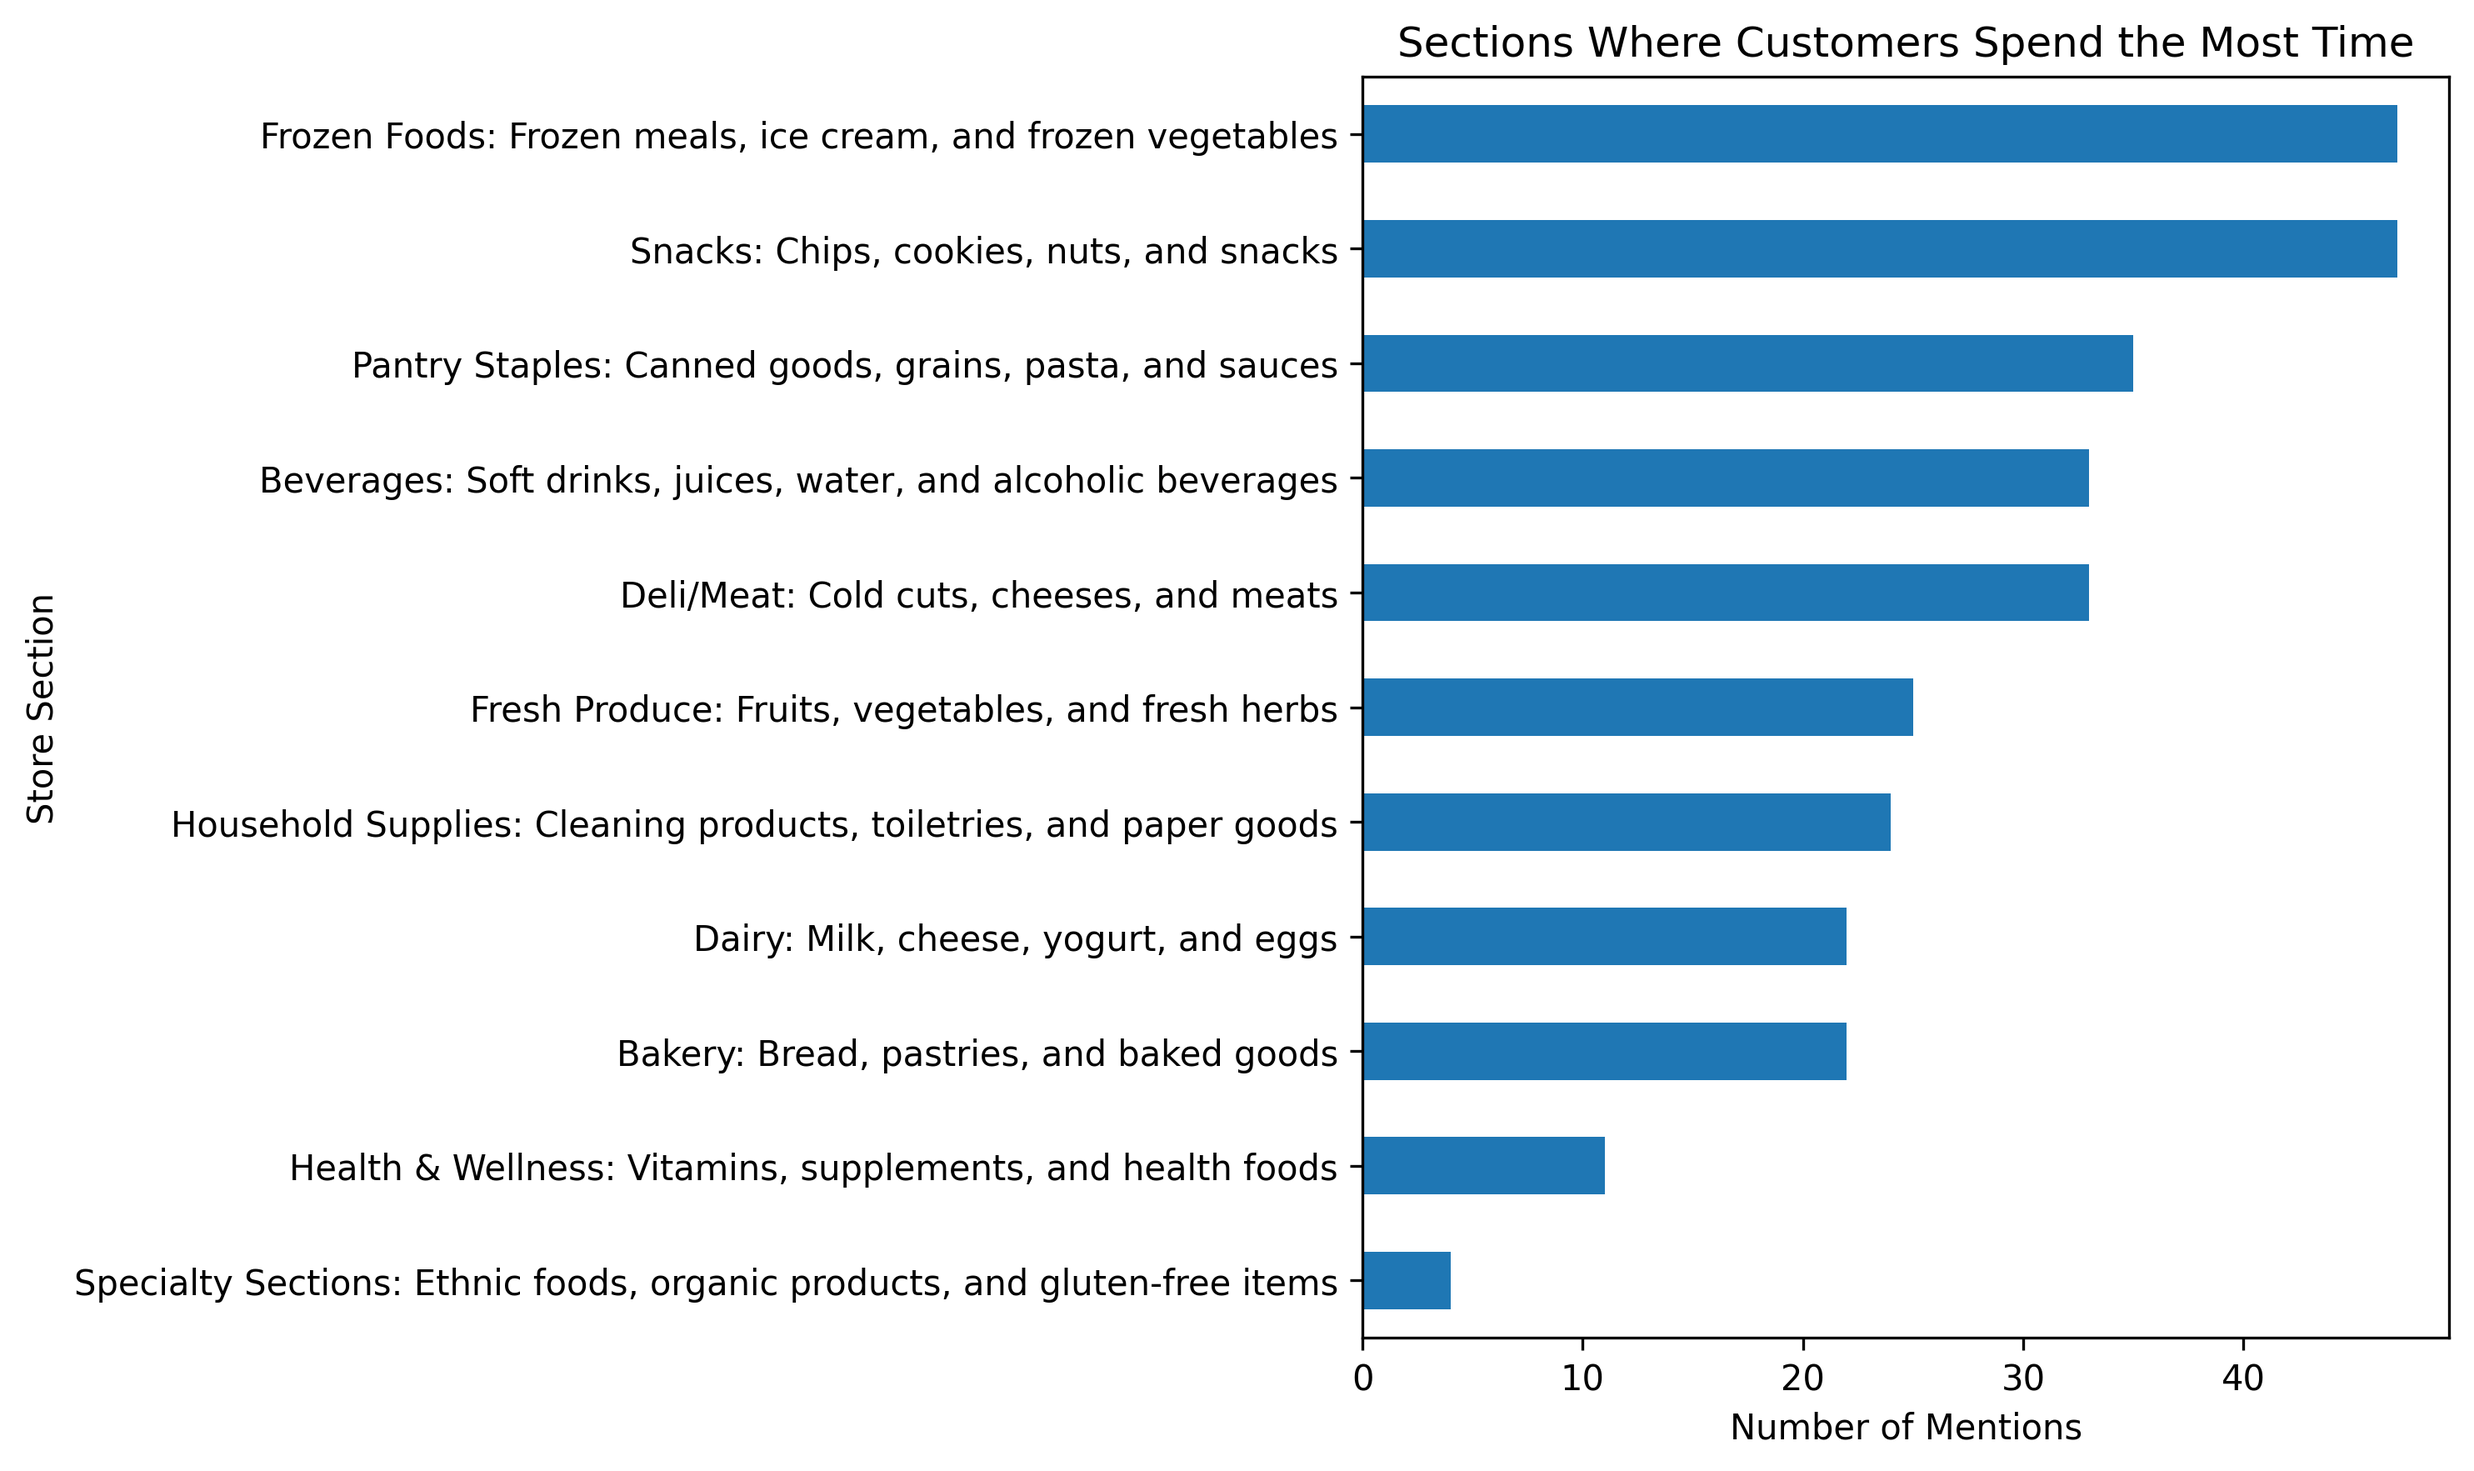
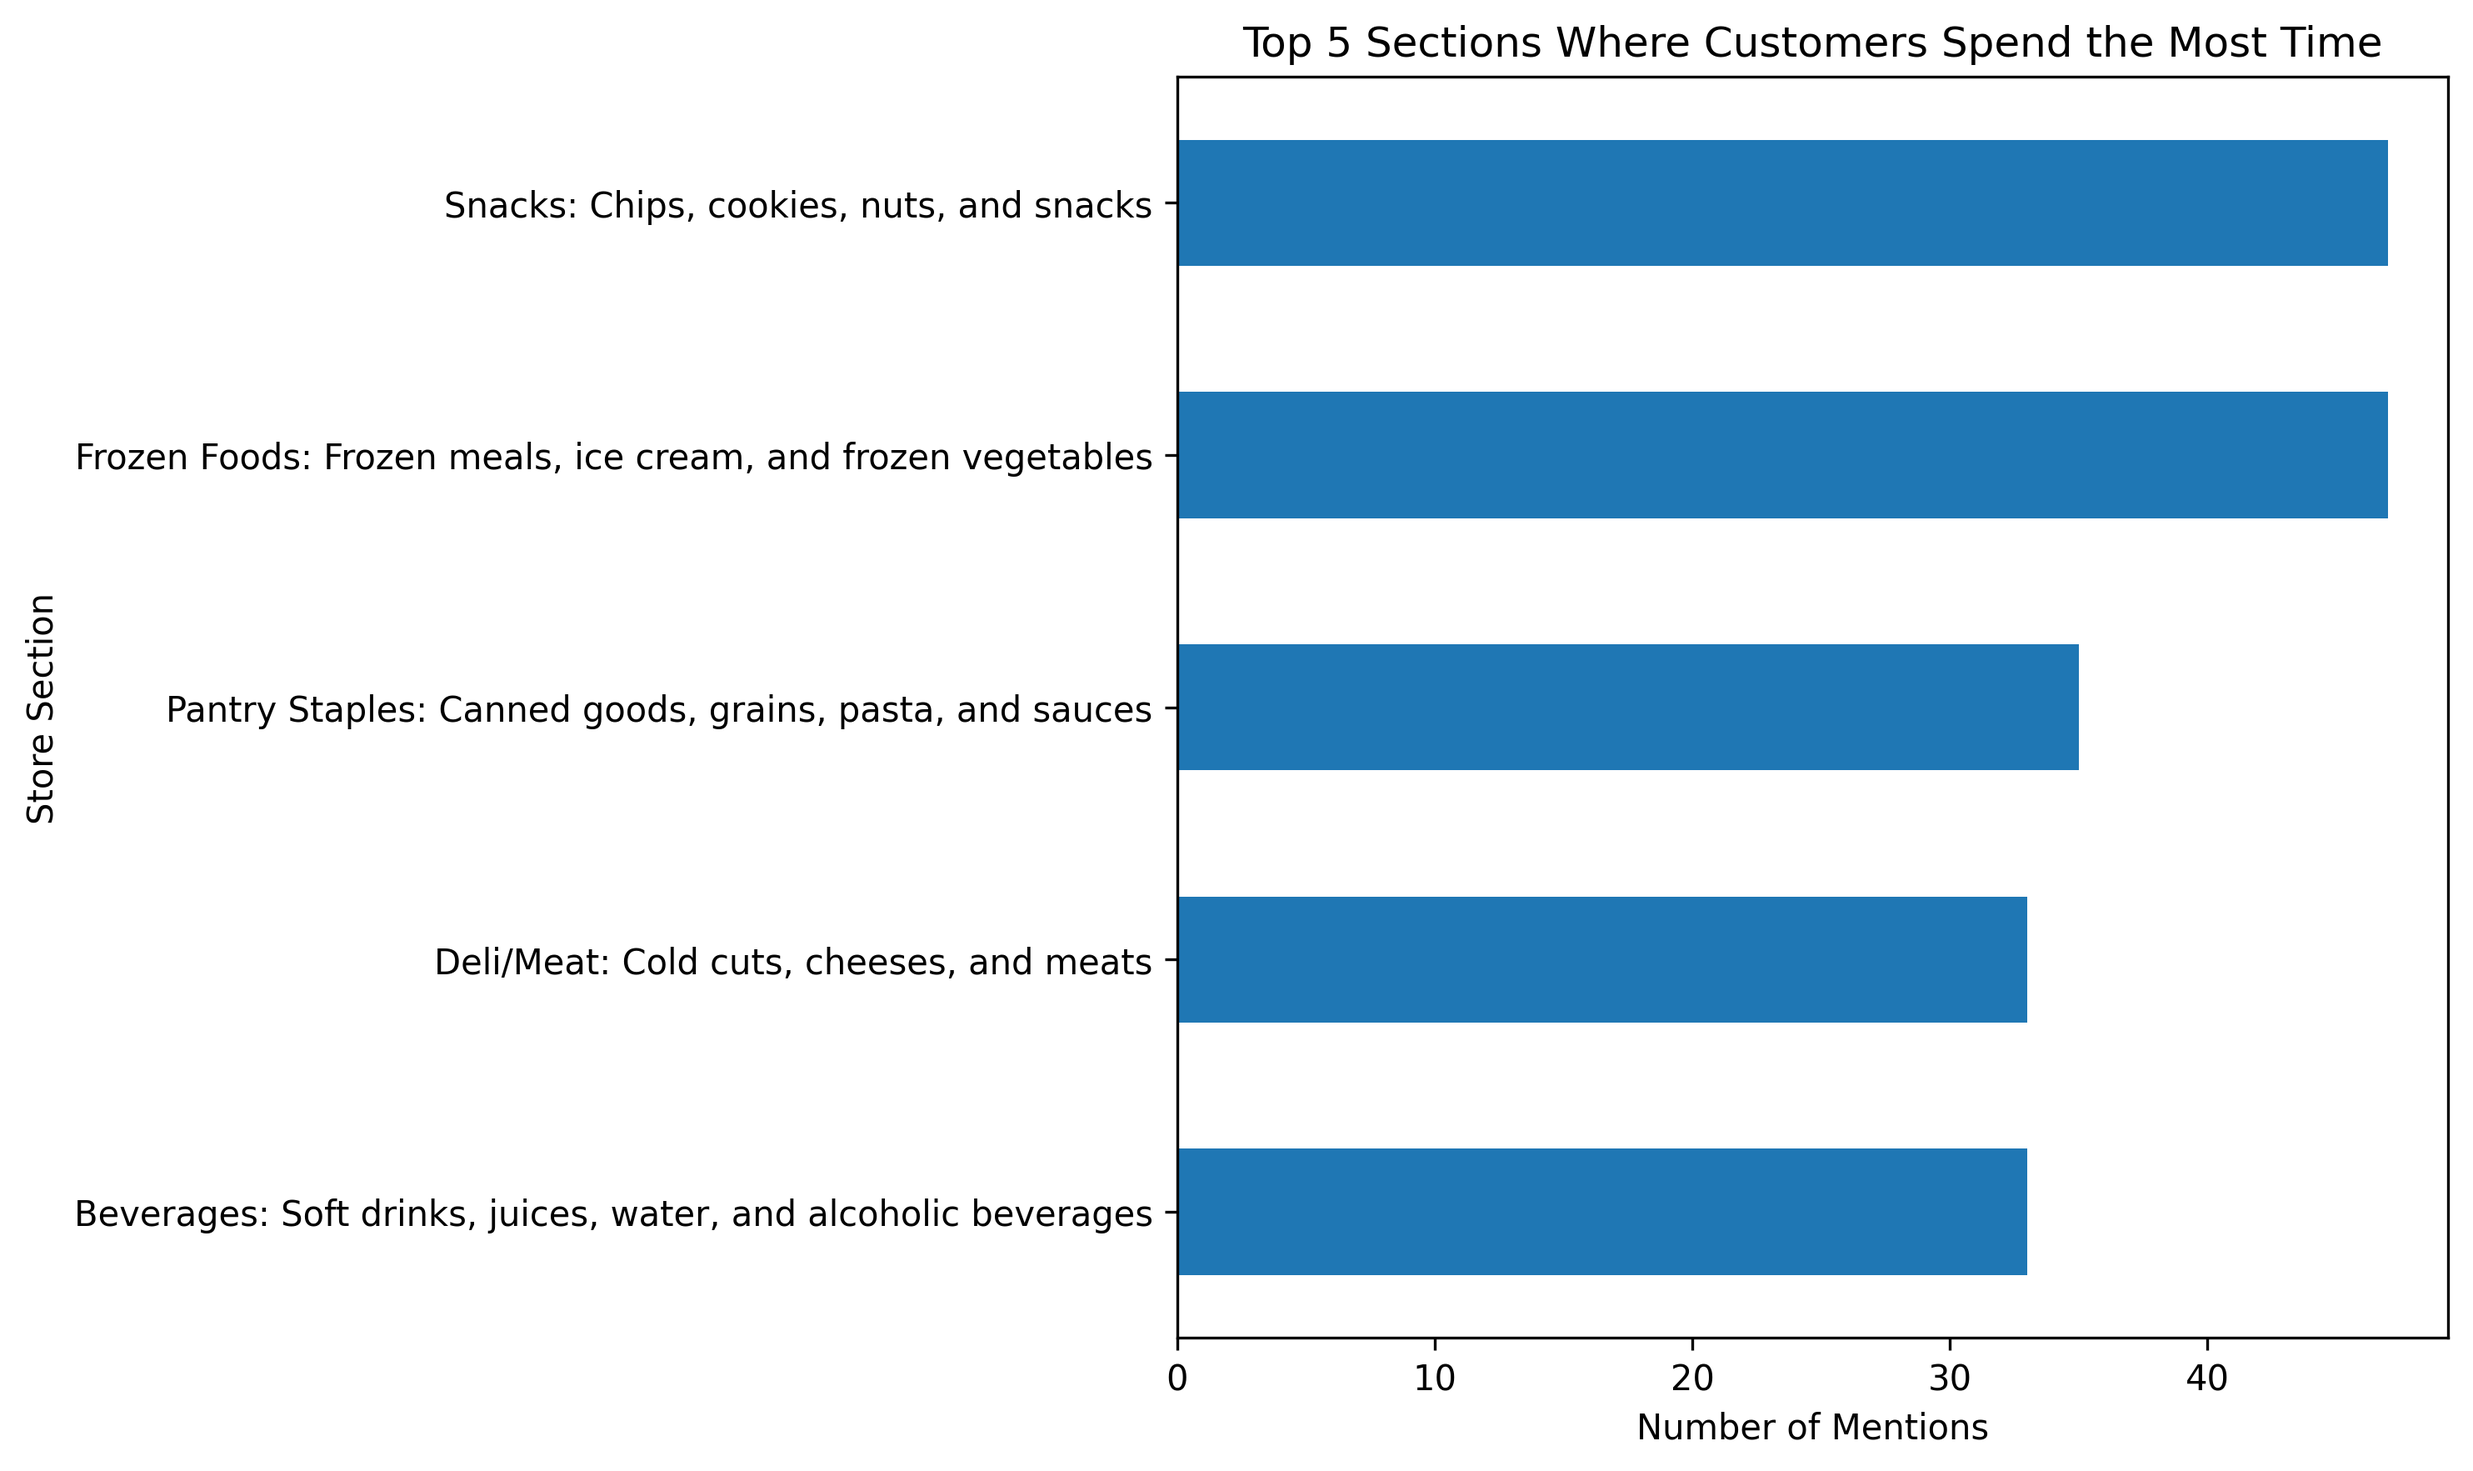
Issue resolved

diff --git a/src/descriptive_analysis.py b/src/descriptive_analysis.py
@@ -397,12 +397,16 @@ def analysis_11_occupation_vs_spending():
 def analysis_12_most_time_spent():
     """Generates the chart for sections where customers spend the most time."""
     res = multiselect_counts(df[COL_MOST_TIME])
-    print("\nMOST TIME SPENT SECTION")
-    print(res)
+
+    # Top 5 highest-count categories only
+    res_top = res.sort_values(ascending=False).head(5)
+
+    print("\nMOST TIME SPENT SECTION (TOP 5)")
+    print(res_top)
 
     save_bar(
-        res,
-        "Sections Where Customers Spend the Most Time",
+        res_top,
+        "Top 5 Sections Where Customers Spend the Most Time",
         "Number of Mentions",
         "Store Section",
         "12_most_time_spent_section.png",
@@ -413,12 +417,20 @@ def analysis_12_most_time_spent():
 def analysis_13_least_time_spent():
     """Generates the chart for sections where customers spend the least time."""
     res = multiselect_counts(df[COL_LEAST_TIME])
-    print("\nLEAST TIME SPENT SECTION")
-    print(res)
+
+    # Exclude categories already used in the top 5 most-time chart
+    most_time_top5 = multiselect_counts(df[COL_MOST_TIME]).sort_values(ascending=False).head(5)
+    overlap_categories = set(most_time_top5.index)
+
+    # Bottom 5 lowest-count categories, excluding overlaps
+    res_bottom = res[~res.index.isin(overlap_categories)].sort_values(ascending=True).head(5)
+
+    print("\nLEAST TIME SPENT SECTION (BOTTOM 5, NO OVERLAP)")
+    print(res_bottom)
 
     save_bar(
-        res,
-        "Sections Where Customers Spend the Least Time",
+        res_bottom,
+        "Bottom 5 Sections Where Customers Spend the Least Time",
         "Number of Mentions",
         "Store Section",
         "13_least_time_spent_section.png",
